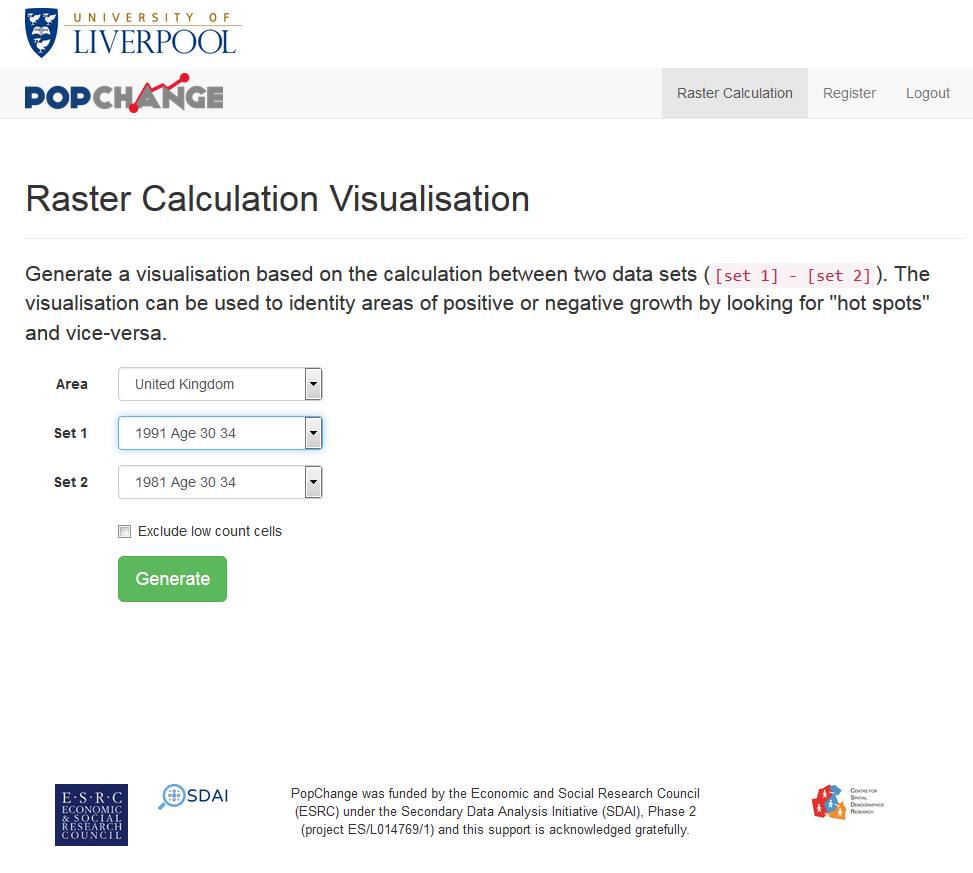
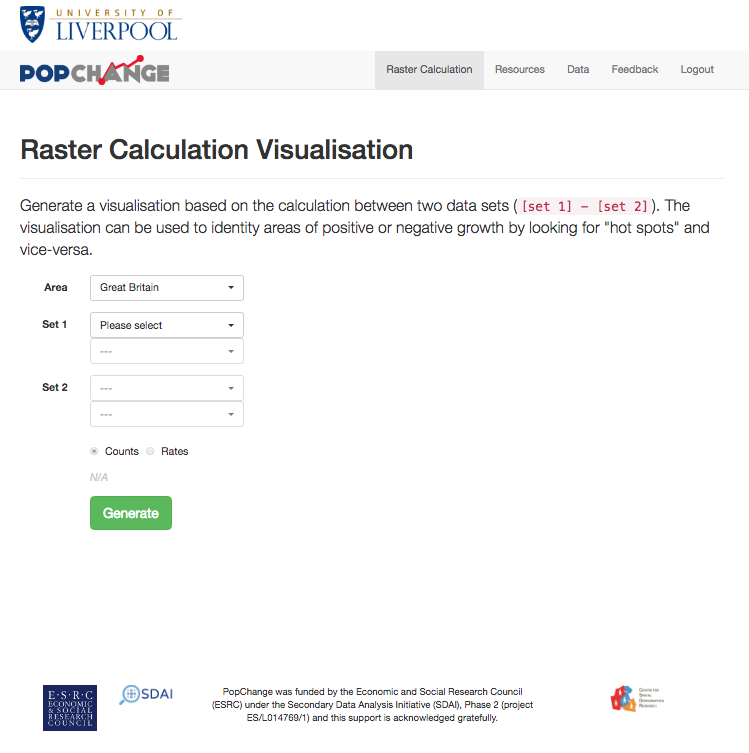
Updates to workbook based on website changes

diff --git a/practicals/1-intro-popchange/workbook.md b/practicals/1-intro-popchange/workbook.md
@@ -5,7 +5,7 @@ output: pdf_document
 
 #Introduction to PopChange Resource and using PopChange with QGIS  
 
-![The PopChange website](images/home-page.png){ width=40% } 
+![The PopChange website](images/home-page.png){ width=50% } 
 
 ##Section 1: Using the PopChange web resource
 
@@ -22,25 +22,25 @@ This part of the practical shows you how to use the web resource to access the P
 
 - Click **Register**  
 - Once you have registered, you will be taken back to the PopChange home page  
-- To begin a comparison, login and fill in your details  
+- To begin a comparison, login using the details you have just registered with  
 - You will then see a screen similar to the one below:  
 
 ![Raster Calculation Visualisation](images/select-data.png){ width=50% }
 
 - This allows you to select an area and then select the year and data set you wish to compare  
 
-*The menus are dynamic in that they will only show you the possible comparisons based on the selections you have made so far. They will also highlight whether the comparison you have selected is meaningful (highlighted in green) or whether caution is needed (highlighted in yellow). If caution is needed, further information will be provided.*
+*The menus are dynamic in that they will only show you the possible comparisons based on the selections you have made so far. They will also highlight whether the comparison you have selected is meaningful (highlighted in green) or whether caution is needed (highlighted in yellow). If caution is needed, further information will be provided.*  
 
-- Select **1991 Age 30 to 34** as set 1 and **1981 Age 30 to 34** as set 2.  
-- Click **Generate**.  
-- The output will be displayed on a map of the right.  
-- This is a map you can move about and zoom in/out. There is also a transparency slider at the top to allow you to see the basemap.  
+- Select **1991** and **Age 30 to 34** as Set 1 and **1981** and **Age 30 to 34** as Set 2  
+- Click **Generate**  
+- The output will be displayed on a map of the right  
+- This is a map you can move about and zoom in/out <!-- There is also a transparency slider at the top to allow you to see the basemap -->  
 
 ![Raster Calculation Visualisation output](images/output-age-30-34.png){ width=50% }
 
-The results (as a JPEG or a GeoTIFF) can be downloaded from the links on the left. 
+The results (as a GeoTIFF for use in QGIS or a JPEG for use as a small image) can be downloaded from the links on the left. 
 
-You can see on the map where there have been high areas of change (green) and low areas of change (blue). Try some different combinations. 
+You can see on the map where there have been high areas of increase (dark red) and high areas of decrease (blue). Try some different combinations. 
 
 - Which of these combinations are sensible?   
 - Do the results seem realistic to you?  
@@ -61,22 +61,20 @@ To begin with, we need to download the data from the website. I will use the 199
 
 Click **Start**, type **QGIS** and click on **QGIS Desktop 2.10.1**
 
-If you get a QGIS Tips window (see below) you can tick the “I’ve had enough tips” tickbox to stop it opening every time you run QGIS.
-
-![QGIS Tips window](images/qgis-tips.png){ width=40% }
+If you get a QGIS Tips window, you can tick the “I’ve had enough tips” tickbox to stop it opening every time you run QGIS.
 
 Let’s start off by adding data to the map display.  
 
-- Start by clicking the Add Raster Layer ![Add Raster Layer tool](images/add-raster.png){ height=20 } button  
-- Then choose Browse and navigate to My Documents   
+- Start by clicking the **Add Raster Layer** ![Add Raster Layer tool](images/add-raster.png){ height=20 } button  
+- Then choose **Browse** and navigate to My Documents   
 - Select one of the ASCII GRID files you downloaded from the PopChange site  
-- Click Open  
+- Click **Open**  
 - QGIS will ask what coordinate system the files are stored in  
 - Type '27700' into the filter box and select 'OSGB 1936 / British National Grid'.  
 
 ![Selecting BNG as the Coordinate Reference System](images/select-crs.png){ width=50% }
 
-- Click OK.   
+- Click **OK**.   
 
 This will add a layer which shows Great Britain, with a series of values in black (0) to white (the maximum value in your data, in mine it was 219.55). 
   
@@ -124,24 +122,24 @@ We can also do the raster calculation of difference within QGIS, replicating wha
 - QGIS will ask what coordinate system the files are stored in  
 - Type '27700' into the filter box and select 'OSGB 1936 / British National Grid'.  
 - Click **OK**.   
-- Repeat the process for 1991 Age 25 to 29
-
+- Repeat the process for 1991 Age 25 to 29  
+  
 Your QGIS window should look similar to below:  
-
+  
 ![Raster layers](images/raster-calc-layers.png){ height=40% }
 
 - Click **Raster > Raster Calculator...**  
 - Click the **...** buy the output layer option  
 - Choose where to save the output (I called mine **grid2001-1991-change-25-29.tif**)  
 - Click **Save**  
-- Double click the 2001 layer  
-- Single click the minus (-) button  
-- Double click the 1991 layer  
+- Double click the **2001** layer  
+- Single click the minus (**-**) button  
+- Double click the **1991** layer  
 - You should have a calculation like this:  
 
 ![Raster calculator window](images/raster-calculator.png){ height=40% }
 
-- Click OK  
+- Click **OK**  
 
 QGIS should calculate the difference between the two raster layers. 
 
